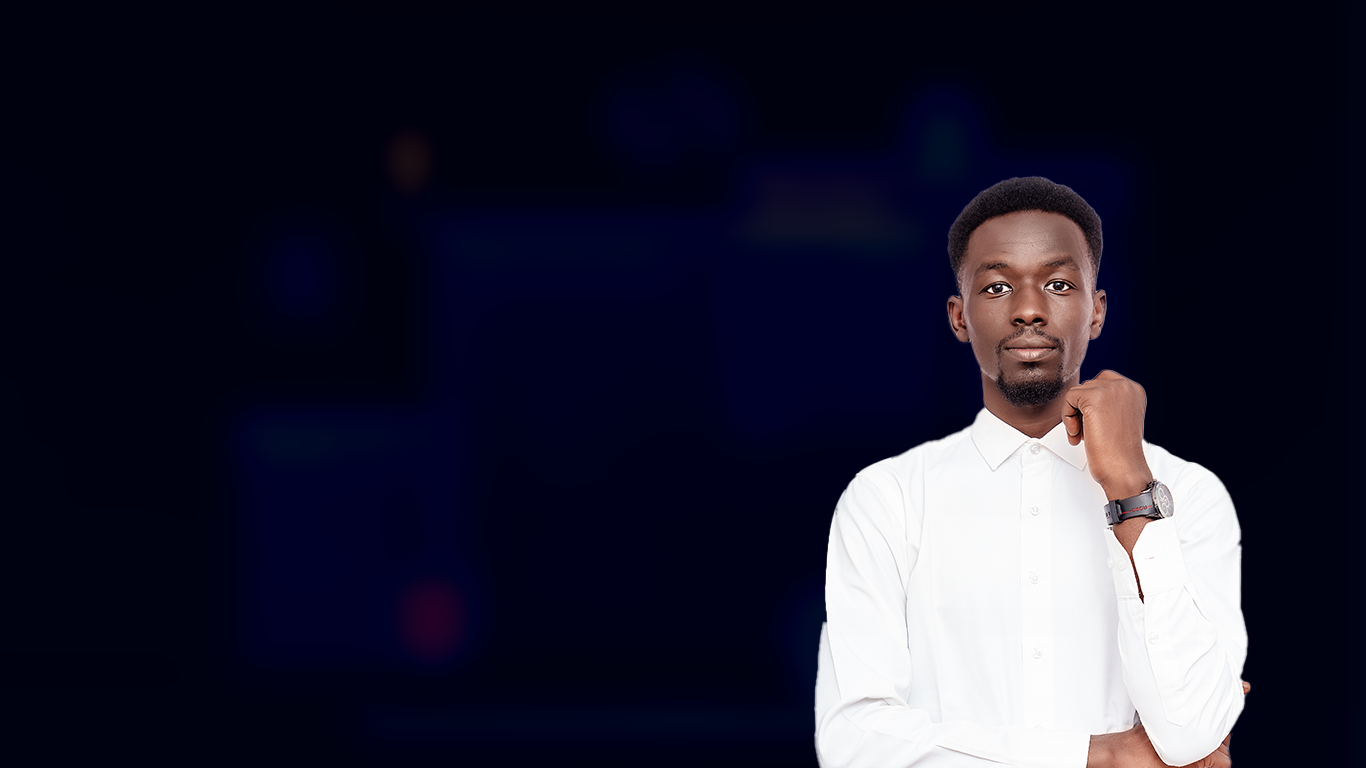
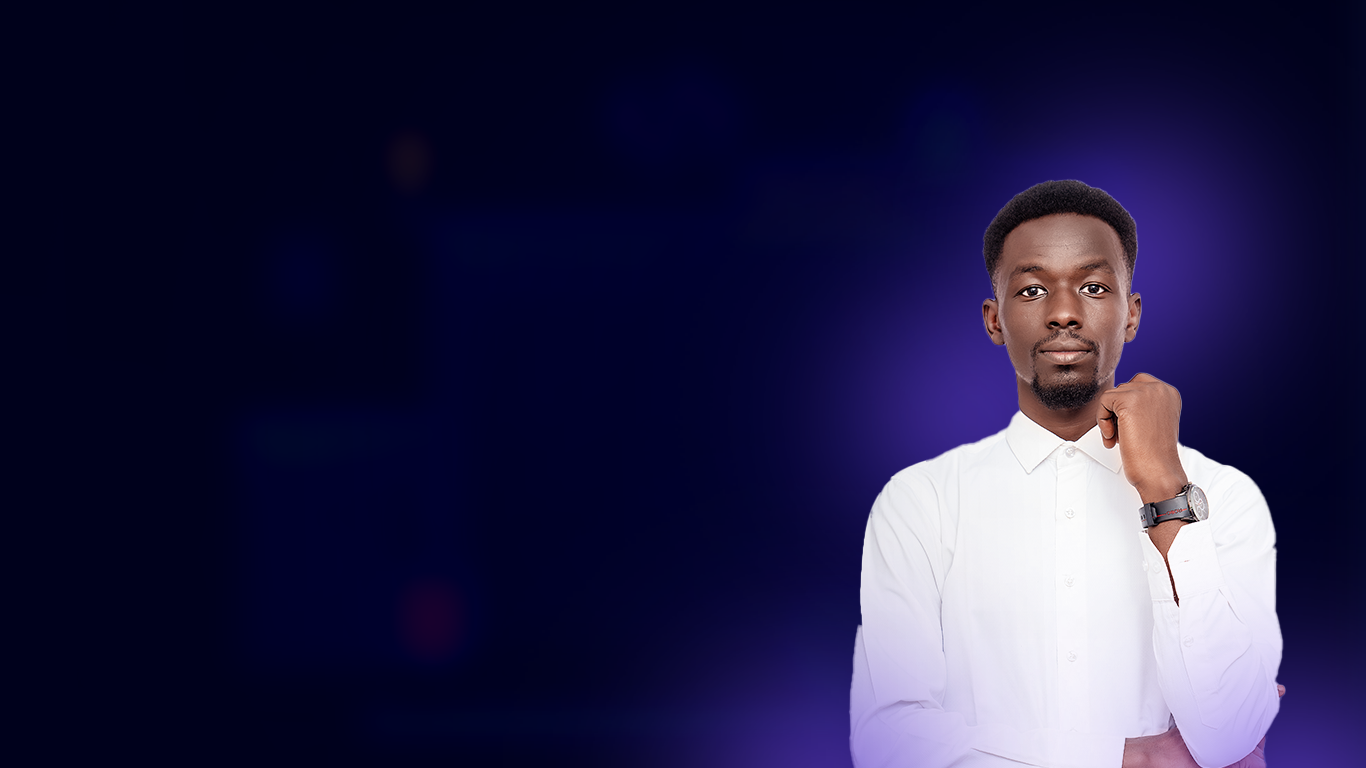
Hero personnalisé avec badge, titre 3 lignes, sous-titre et CV

Changed region(s): [[0.4305, 0.0312, 1.0, 1.0]]

diff --git a/src/components/Hero.jsx b/src/components/Hero.jsx
@@ -1,3 +1,5 @@
+import { Download } from 'lucide-react';
+
 export default function Hero() {
   return (
     <section id="hero" className="hero">
@@ -6,13 +8,19 @@ export default function Hero() {
       <div className="hero-container">
         <div className="hero-content">
           <div className="hero-left">
+            <div className="hero-status-badge">
+              <div className="status-dot" />
+              <span className="status-text">Disponible pour nouveaux projets</span>
+            </div>
+
             <h1 className="hero-heading">
-              <span className="hero-heading-line">Willy</span>
-              <span className="hero-heading-line hero-heading-accent">Dev</span>
+              <span className="hero-heading-line">Développeur</span>
+              <span className="hero-heading-line hero-heading-accent">Full Stack</span>
+              <span className="hero-heading-line">Créatif</span>
             </h1>
 
             <p className="hero-subtitle">
-              Développeur Full Stack — Angular, Laravel, React.
+              Spécialisé en Angular, Laravel et React. Je transforme vos idées en applications web performantes et modernes.
             </p>
 
             <div className="hero-cta-group">
@@ -21,6 +29,13 @@ export default function Hero() {
               </a>
               <a href="#contact" className="btn-secondary hero-btn-secondary">
                 Me contacter
+              </a>
+            </div>
+
+            <div className="hero-secondary-actions">
+              <a href="/cv-willy-dev.pdf" download className="hero-link">
+                <Download size={16} />
+                Télécharger CV
               </a>
             </div>
           </div>

diff --git a/src/components/Blog.jsx b/src/components/Blog.jsx
@@ -80,7 +80,7 @@ export default function Blog() {
       } else {
         el.scrollBy({ left: el.querySelector('.blog-card').offsetWidth + 24, behavior: 'smooth' });
       }
-    }, 4000);
+    }, 6000);
     return () => clearInterval(interval);
   }, []);
 

diff --git a/src/components/Services.jsx b/src/components/Services.jsx
@@ -62,7 +62,7 @@ export default function Services() {
       } else {
         el.scrollBy({ left: el.querySelector('.service-card').offsetWidth + 24, behavior: 'smooth' });
       }
-    }, 4000);
+    }, 6000);
     return () => clearInterval(interval);
   }, []);
 